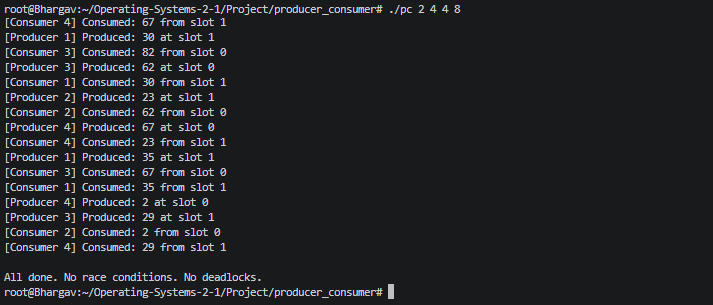
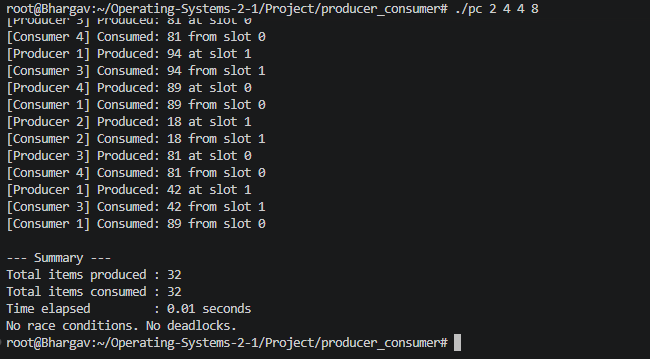
Updated Project

Changed region(s): [[0.0, 0.0, 0.8308, 0.9738]]

diff --git a/Linux Concurrent Producer-Consumer System Using Semaphores/producer_consumer/main.c b/Linux Concurrent Producer-Consumer System Using Semaphores/producer_consumer/main.c
@@ -1,0 +1,67 @@
+#include <stdio.h>
+#include <stdlib.h>
+#include <pthread.h>
+#include <time.h>
+#include "buffer.h"
+#include "semaphores.h"
+#include "producer.h"
+#include "consumer.h"
+
+int main(int argc, char *argv[]) {
+    if (argc != 5) {
+        printf("Usage: ./pc <buffer_size> <num_producers> <num_consumers> <items_per_producer>\n");
+        return 1;
+    }
+
+    BUFFER_SIZE        = atoi(argv[1]);
+    int num_producers  = atoi(argv[2]);
+    int num_consumers  = atoi(argv[3]);
+    ITEMS_PER_PRODUCER = atoi(argv[4]);
+
+    if (BUFFER_SIZE > MAX_BUFFER || BUFFER_SIZE < 1 || num_producers < 1 || num_consumers < 1) {
+        printf("Error: invalid arguments\n");
+        return 1;
+    }
+
+    srand(time(NULL));
+    int total_items        = num_producers * ITEMS_PER_PRODUCER;
+    int items_per_consumer = total_items / num_consumers;
+    int remainder          = total_items % num_consumers;
+
+    init_buffer();
+    init_semaphores(BUFFER_SIZE);
+
+    pthread_t prod_threads[num_producers];
+    pthread_t cons_threads[num_consumers];
+    int prod_ids[num_producers];
+    int cons_args[num_consumers][2];
+
+    clock_t start = clock();
+
+    for (int i = 0; i < num_producers; i++) {
+        prod_ids[i] = i + 1;
+        pthread_create(&prod_threads[i], NULL, producer, &prod_ids[i]);
+    }
+
+    for (int i = 0; i < num_consumers; i++) {
+        cons_args[i][0] = i + 1;
+        cons_args[i][1] = items_per_consumer + (i == num_consumers - 1 ? remainder : 0);
+        pthread_create(&cons_threads[i], NULL, consumer, cons_args[i]);
+    }
+
+    for (int i = 0; i < num_producers; i++) pthread_join(prod_threads[i], NULL);
+    for (int i = 0; i < num_consumers; i++) pthread_join(cons_threads[i], NULL);
+
+    clock_t end = clock();
+    double elapsed = (double)(end - start) / CLOCKS_PER_SEC;
+
+    destroy_semaphores();
+
+    printf("\n--- Summary ---\n");
+    printf("Total items produced : %d\n", total_items);
+    printf("Total items consumed : %d\n", total_items);
+    printf("Time elapsed         : %.2f seconds\n", elapsed);
+    printf("No race conditions. No deadlocks.\n");
+
+    return 0;
+}

diff --git a/Linux Concurrent Producer-Consumer System Using Semaphores/producer_consumer/producer.c b/Linux Concurrent Producer-Consumer System Using Semaphores/producer_consumer/producer.c
@@ -1,0 +1,23 @@
+#include <stdio.h>
+#include <stdlib.h>
+#include <unistd.h>
+#include "producer.h"
+#include "buffer.h"
+#include "semaphores.h"
+
+int ITEMS_PER_PRODUCER;
+
+void *producer(void *arg) {
+    int id = *(int *)arg;
+    for (int i = 0; i < ITEMS_PER_PRODUCER; i++) {
+        int item = rand() % 100;
+        sem_wait(&empty);
+        sem_wait(&mutex);
+        insert_item(item);
+        printf("[Producer %d] Produced: %d at slot %d\n", id, item, (in - 1 + BUFFER_SIZE) % BUFFER_SIZE);
+        sem_post(&mutex);
+        sem_post(&full);
+        usleep(100000);
+    }
+    return NULL;
+}

diff --git a/Linux Concurrent Producer-Consumer System Using Semaphores/producer_consumer/consumer.c b/Linux Concurrent Producer-Consumer System Using Semaphores/producer_consumer/consumer.c
@@ -1,0 +1,22 @@
+#include <stdio.h>
+#include <unistd.h>
+#include "consumer.h"
+#include "buffer.h"
+#include "semaphores.h"
+
+void *consumer(void *arg) {
+    int id    = ((int *)arg)[0];
+    int total = ((int *)arg)[1];
+    for (int i = 0; i < total; i++) {
+        int item;
+        sem_wait(&full);
+        sem_wait(&mutex);
+        int slot = out;
+        remove_item(&item);
+        printf("[Consumer %d] Consumed: %d from slot %d\n", id, item, slot);
+        sem_post(&mutex);
+        sem_post(&empty);
+        usleep(150000);
+    }
+    return NULL;
+}

diff --git a/Linux Concurrent Producer-Consumer System Using Semaphores/producer_consumer/buffer.c b/Linux Concurrent Producer-Consumer System Using Semaphores/producer_consumer/buffer.c
@@ -1,0 +1,27 @@
+#include <stdio.h>
+#include "buffer.h"
+
+int buffer[MAX_BUFFER];
+int in = 0, out = 0;
+int BUFFER_SIZE;
+
+void init_buffer() {
+    in = 0;
+    out = 0;
+    for (int i = 0; i < MAX_BUFFER; i++) buffer[i] = -1;
+}
+
+int insert_item(int item) {
+    if (((in + 1) % BUFFER_SIZE) == out) return -1;
+    buffer[in] = item;
+    in = (in + 1) % BUFFER_SIZE;
+    return 0;
+}
+
+int remove_item(int *item) {
+    if (in == out) return -1;
+    *item = buffer[out];
+    buffer[out] = -1;
+    out = (out + 1) % BUFFER_SIZE;
+    return 0;
+}

diff --git a/Linux Concurrent Producer-Consumer System Using Semaphores/producer_consumer/semaphores.c b/Linux Concurrent Producer-Consumer System Using Semaphores/producer_consumer/semaphores.c
@@ -1,0 +1,15 @@
+#include "semaphores.h"
+
+sem_t empty, full, mutex;
+
+void init_semaphores(int buffer_size) {
+    sem_init(&empty, 0, buffer_size);
+    sem_init(&full,  0, 0);
+    sem_init(&mutex, 0, 1);
+}
+
+void destroy_semaphores() {
+    sem_destroy(&empty);
+    sem_destroy(&full);
+    sem_destroy(&mutex);
+}

diff --git a/Linux Concurrent Producer-Consumer System Using Semaphores/producer_consumer/buffer.h b/Linux Concurrent Producer-Consumer System Using Semaphores/producer_consumer/buffer.h
@@ -1,0 +1,14 @@
+#ifndef BUFFER_H
+#define BUFFER_H
+
+#define MAX_BUFFER 100
+
+extern int buffer[MAX_BUFFER];
+extern int in, out;
+extern int BUFFER_SIZE;
+
+void init_buffer();
+int insert_item(int item);
+int remove_item(int *item);
+
+#endif

diff --git a/Linux Concurrent Producer-Consumer System Using Semaphores/producer_consumer/semaphores.h b/Linux Concurrent Producer-Consumer System Using Semaphores/producer_consumer/semaphores.h
@@ -1,0 +1,11 @@
+#ifndef SEMAPHORES_H
+#define SEMAPHORES_H
+
+#include <semaphore.h>
+
+extern sem_t empty, full, mutex;
+
+void init_semaphores(int buffer_size);
+void destroy_semaphores();
+
+#endif

diff --git a/Linux Concurrent Producer-Consumer System Using Semaphores/producer_consumer/producer.h b/Linux Concurrent Producer-Consumer System Using Semaphores/producer_consumer/producer.h
@@ -1,0 +1,8 @@
+#ifndef PRODUCER_H
+#define PRODUCER_H
+
+extern int ITEMS_PER_PRODUCER;
+
+void *producer(void *arg);
+
+#endif

diff --git a/Linux Concurrent Producer-Consumer System Using Semaphores/producer_consumer/consumer.h b/Linux Concurrent Producer-Consumer System Using Semaphores/producer_consumer/consumer.h
@@ -1,0 +1,6 @@
+#ifndef CONSUMER_H
+#define CONSUMER_H
+
+void *consumer(void *arg);
+
+#endif

diff --git a/Linux Concurrent Producer-Consumer System Using Semaphores/README.md b/Linux Concurrent Producer-Consumer System Using Semaphores/README.md
@@ -1,22 +1,58 @@
 # Linux Concurrent Producer-Consumer System Using Semaphores
 
-OS Project | 25CS2104E | Section 11 | Team 1
+**Course:** Operating Systems and Systems Programming (25CS2104E)  
+**Term:** 2026-27, Term-I | Section 11 | Team 1
+
+---
 
 ## Team Members
-| Roll Number   | Name     |
-|---------------|----------|
-| 2520090169    | Bhargava |
-| 2520090107    | Hanish   |
-| 2520090162    | Teja     |
-| 2520090043    | Pardhu   |
+| Roll Number | Name     | Responsibility |
+|-------------|----------|----------------|
+| 2520090169  | Bhargava | System architecture, circular buffer, producer logic, integration testing |
+| 2520090107  | Hanish   | Semaphore logic, consumer thread, GDB/strace debugging |
+| 2520090162  | Teja     | Thread management, boundary testing, test case validation |
+| 2520090043  | Pardhu   | Makefile, GitHub, performance analysis, code review |
+
+---
 
 ## Description
-A concurrent producer-consumer system implemented in C on Linux using POSIX semaphores and pthreads. Demonstrates mutual exclusion, process synchronization, and bounded buffer management.
+A fully synchronized concurrent producer-consumer system implemented in C on Ubuntu Linux using POSIX semaphores and pthreads. Demonstrates mutual exclusion, process synchronization, bounded buffer management, and prevention of race conditions and deadlocks.
 
-## Files
-- producer_consumer.c  — main implementation
-- Makefile             — build automation
-- README.md            — this file
+---
+
+## Project Structure
+
+    producer_consumer/
+    ├── main.c          — argument parsing, thread creation/joining, summary
+    ├── buffer.c        — circular buffer implementation
+    ├── buffer.h        — buffer declarations
+    ├── producer.c      — producer thread logic
+    ├── producer.h      — producer declarations
+    ├── consumer.c      — consumer thread logic
+    ├── consumer.h      — consumer declarations
+    ├── semaphores.c    — semaphore init and destroy
+    ├── semaphores.h    — semaphore declarations
+    └── Makefile        — build automation with object files
+    screenshots/
+    ├── 1_project_structure.png
+    ├── 2_build_success.png
+    ├── 3_basic_test.png
+    ├── 4_boundary_test.png
+    ├── 5_stress_test.png
+    ├── 6_varying_buffer.png
+    ├── 7_strace.png
+    └── 8_gdb.png
+
+---
+
+## Semaphores Used
+| Semaphore | Initial Value | Purpose |
+|-----------|---------------|---------|
+| empty     | buffer_size   | Tracks available slots — blocks producer when buffer is full |
+| full      | 0             | Tracks filled slots — blocks consumer when buffer is empty |
+| mutex     | 1             | Binary semaphore for mutual exclusion during buffer access |
+
+---
 
 ## Build
     make
@@ -24,13 +60,29 @@ A concurrent producer-consumer system implemented in C on Linux using POSIX sema
 ## Run
     ./pc <buffer_size> <num_producers> <num_consumers> <items_per_producer>
 
-## Examples
-    ./pc 5 3 2 10     # basic test
-    ./pc 3 1 1 5      # boundary test
-    ./pc 10 5 5 20    # stress test
-    ./pc 2 4 4 8      # small buffer, many threads
+## Test Cases
+| Test | Command | Purpose |
+|------|---------|---------|
+| Basic | `./pc 5 3 2 10` | Standard multi-producer multi-consumer run |
+| Boundary | `./pc 3 1 1 5` | Single producer, single consumer |
+| Stress | `./pc 10 5 5 20` | High load with many threads |
+| Small Buffer | `./pc 2 4 4 8` | Forces producer blocking on full buffer |
 
-## Semaphores Used
-- empty  : tracks available buffer slots (init = buffer_size)
-- full   : tracks filled buffer slots (init = 0)
-- mutex  : binary semaphore for mutual exclusion (init = 1)
+## Clean
+    make clean
+
+---
+
+## OS Concepts Demonstrated
+- Bounded buffer with circular array
+- POSIX semaphores (sem_init, sem_wait, sem_post, sem_destroy)
+- POSIX threads (pthread_create, pthread_join)
+- Mutual exclusion and critical section protection
+- Deadlock prevention through correct semaphore ordering
+- System call tracing with strace
+- Multi-thread debugging with GDB
+
+---
+
+## GitHub Repository
+[https://github.com/HanishDev0017/OS-Project](https://github.com/HanishDev0017/OS-Project)
